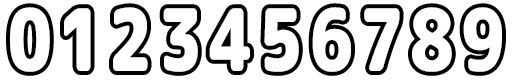
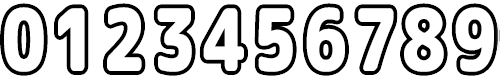
最初にやるだけの関数に移動UIManager UIManagerの追加 関数に処理を変更

diff --git a/2025afterGame/GameSources/NumberSprite.cpp b/2025afterGame/GameSources/NumberSprite.cpp
@@ -113,18 +113,25 @@ namespace basecross {
         float totalWidth = m_size.x * str.size();
 
         // 桁数が変わったらスプライト作り直し
-        if (m_digits.size() != str.size()) {
+        if (m_digits.size() != str.size())
+        {
             // 既存の桁を削除
-            for (auto& obj : m_digits) {
+            for (auto& obj : m_digits)
+            {
                 obj->MyDestroy();
             }
             m_digits.clear();
             m_digits.reserve(str.size());
 
             // 新しい桁Spriteを生成
-            for (int i = 0; i < str.size(); i++) {
+            for (int i = 0; i < str.size(); i++) 
+            {
+                float x = m_pos.x + (i * m_size.x) - totalWidth + m_size.x;
+
+                x = round(x);
+
                 Vec3 digitPos = Vec3(
-                    m_pos.x + (i * m_size.x) - totalWidth + m_size.x,
+                    x,
                     m_pos.y,
                     m_pos.z
                 );
@@ -145,39 +152,9 @@ namespace basecross {
         for (int i = 0; i < str.size(); i++)
         {
             int value = str[i] - L'0';
-            value = clamp(value, 0, 9);
 
-            const float texWidth = 512.0f;   // 数字テクスチャの横幅(px)
-            const float digitCount = 10.0f;
-
-            float digitWidth = texWidth / digitCount;   // 51.2px
-
-            // ピクセル境界にスナップ
-            float px0 = round(digitWidth * value);
-            float px1 = round(digitWidth * (value + 1));
-
-            // UVに正規化
-            float u0 = px0 / texWidth;
-            float u1 = px1 / texWidth;
-
-            // 隣の数字がにじまないように 0.5px 内側へ
-            float halfPixel = 1.0f / texWidth;
-            u0 += halfPixel;
-            u1 -= halfPixel;
-
-            m_digits[i]->SetUVRect(Vec2(u0, 0.0f), Vec2(u1, 1.0f));
+            m_digits[i]->SetDigit(value);
         }
-    }
-
-    void NumberSprite::SetDigit(int digit)
-    {
-        digit = clamp(digit, 0, 9);
-
-        float piece = 1.0f / 10.0f;
-        float u0 = piece * digit;
-        float u1 = piece * (digit + 1);
-
-      SetUVRect(Vec2(u0, 0.0f), Vec2(u1, 1.0f));
     }
 
     void NumberSprite::SetMyType(NumberType type)
